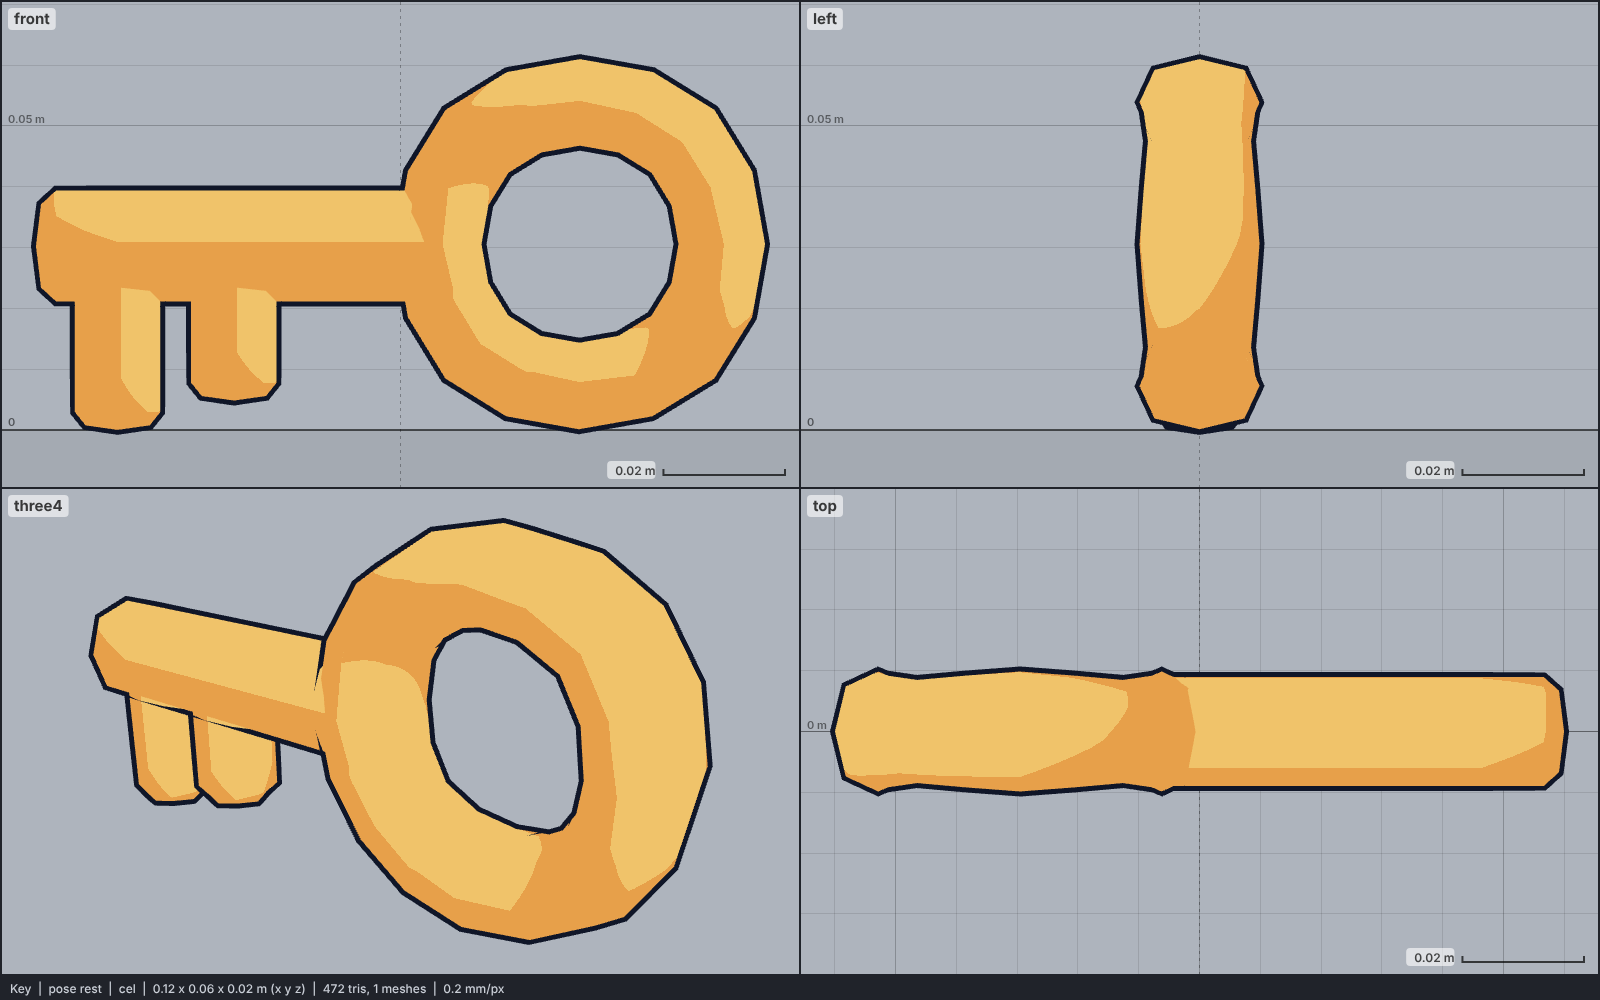
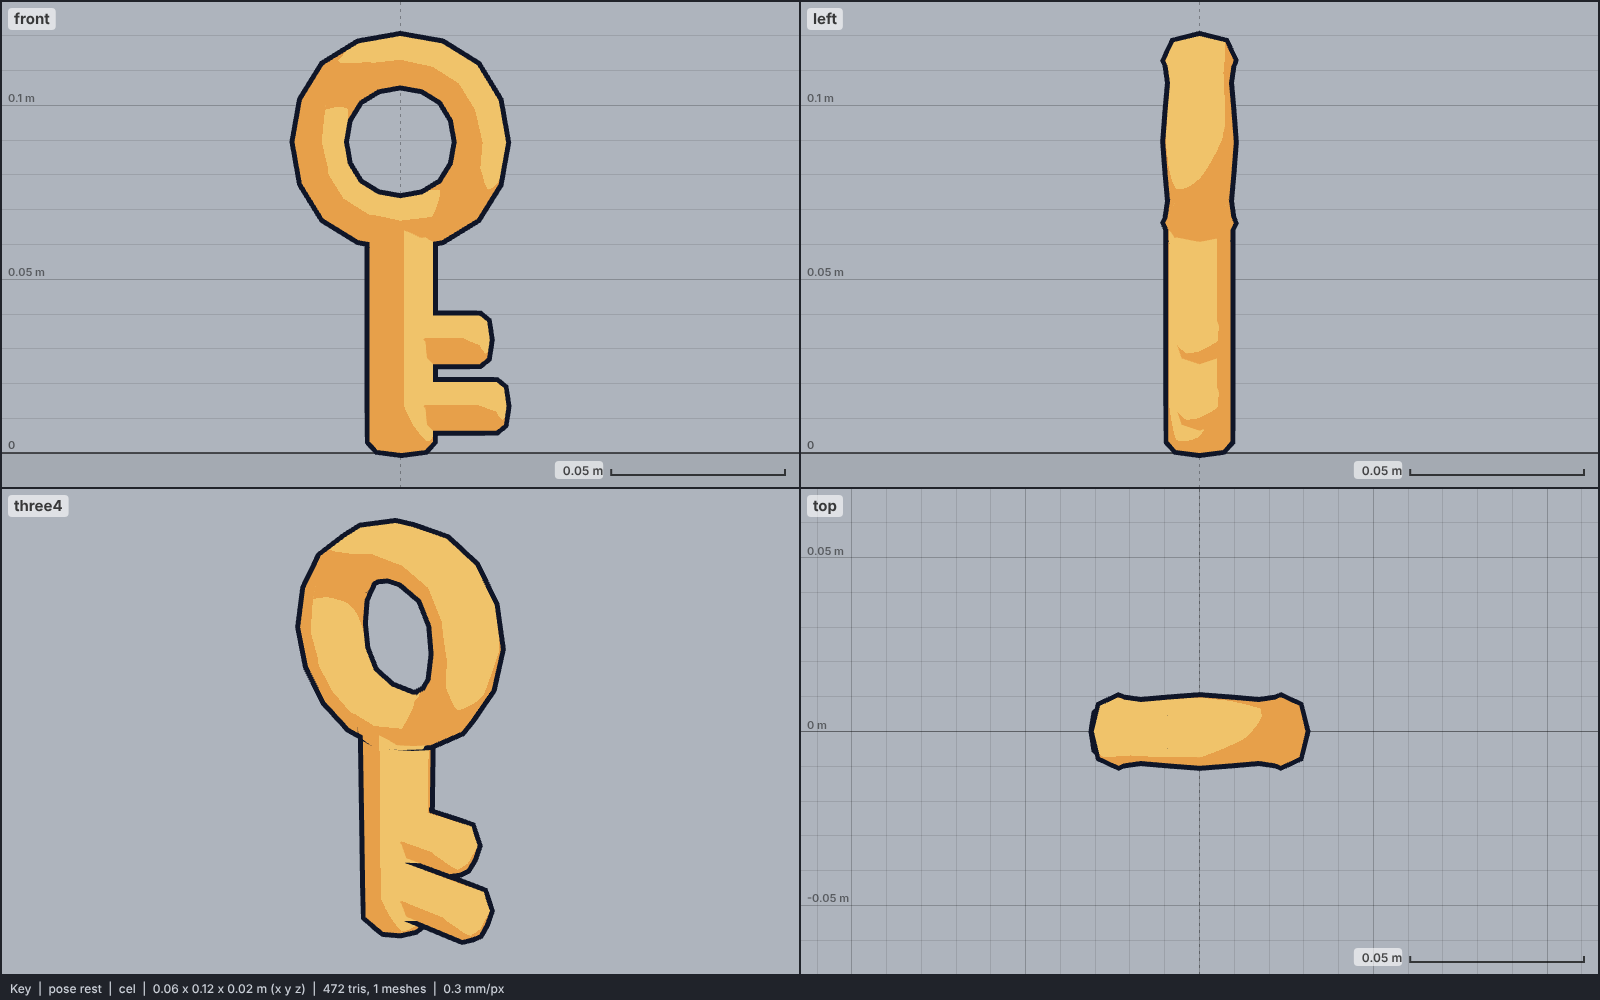
Library: key upright (ingest.roll -90, height 0.12)
Claude-Session: https://claude.ai/code/session_01RarBCdt4E1fNHHaUKaW5GL

diff --git a/models/CATALOG.md b/models/CATALOG.md
@@ -9,4 +9,4 @@
 
 | preview | id | model | height | tris | clips | licence | source |
 | --- | --- | --- | --- | --- | --- | --- | --- |
-| <img src="library/key/preview.png" width="240"> | `key` | Key<br>*low-poly, flat colours, chunky old-style gold key (Quaternius 2021)* | 0.061 m | 472 | - | CC0 1.0 | [Quaternius · Ultimate Platformer Pack (Dec 2021)](https://quaternius.itch.io/ultimate-platformer-pack) |
+| <img src="library/key/preview.png" width="240"> | `key` | Key<br>*low-poly, flat colours, chunky old-style gold key (Quaternius 2021)* | 0.12 m | 472 | - | CC0 1.0 | [Quaternius · Ultimate Platformer Pack (Dec 2021)](https://quaternius.itch.io/ultimate-platformer-pack) |
